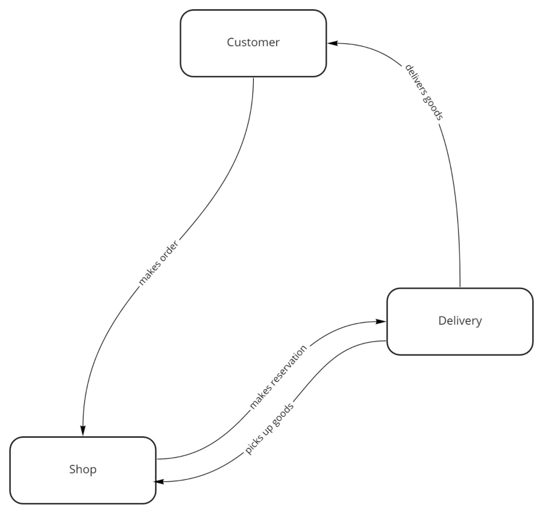
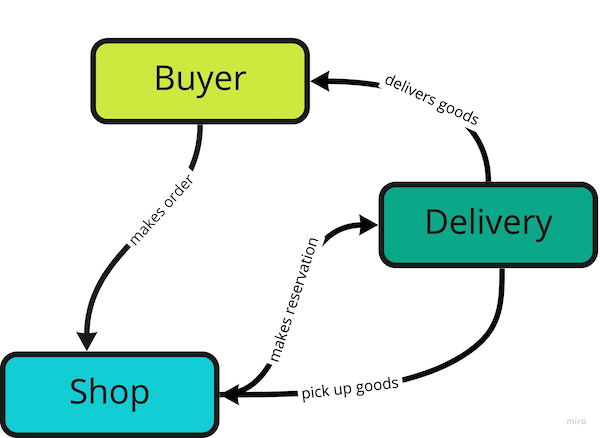
Improve images, update the first paragraph

diff --git a/_posts/2021-10-25-clean-architecture-story.md b/_posts/2021-10-25-clean-architecture-story.md
@@ -6,9 +6,10 @@ tags: [tech, architecture, clean-architecture, ddd, kotlin]
 ---
 [Clean Architecture](https://blog.cleancoder.com/uncle-bob/2012/08/13/the-clean-architecture.html) concept has been around
 for some time and keeps surfacing in one place or another, yet it is not widely adopted.
-In this post I would like to introduce this topic in a bit different way:
+In this post I would like to introduce this topic in a less conventional way:
 starting with customer's needs and going through various stages to present a solution that is clean-enough to satisfy concepts
 from aforementioned blog (or book with the same name).
+
 
 ## The perspective
 Why do we need software architecture? What is it anyway? The extensive definition can be found in a place a bit unexpected
